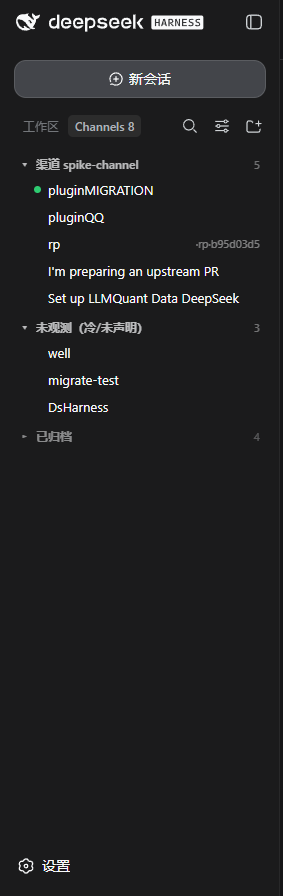
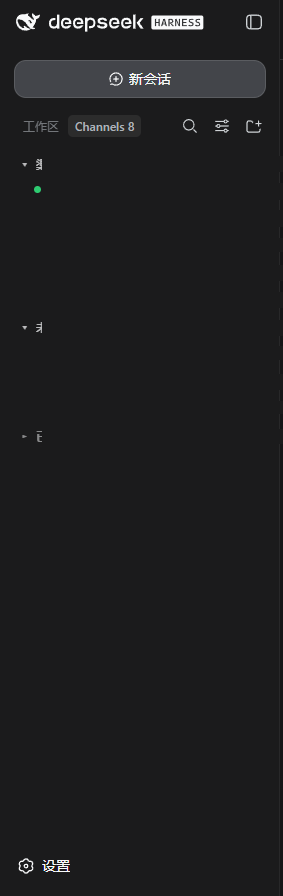
docs(privacy): 预览截图改为抹名版（遮蔽真实工作区/会话名）+ README 改用绝对图片 URL

Changed region(s): [[0.1413, 0.1562, 0.9046, 0.5]]

diff --git a/README.md b/README.md
@@ -8,7 +8,9 @@
 
 | 工作区常态 | Channels 激活态（分组 + 脉冲点 + 归档折叠组） |
 |---|---|
-| ![tab-normal](docs/tab-normal.png) | ![channels-active](docs/channels-active.png) |
+| ![工作区常态（会话名已遮蔽）](https://raw.githubusercontent.com/RGarvel/dsh-channel-view/main/docs/tab-normal.png) | ![Channels 激活态（会话名已遮蔽）](https://raw.githubusercontent.com/RGarvel/dsh-channel-view/main/docs/channels-active.png) |
+
+> 上表为**抹名版**截图：真实工作区与会话名已遮蔽，分组结构 / 脉冲点 / 归档折叠组保持原样。图片用绝对 URL，GitHub 与 npm 两处页面都不依赖相对路径解析。净化 demo 环境的正式截图待替换。
 
 DSH「渠道会话视图」原型。**spike 三问已全部验证通过（2026-08-27 实测 CHAIN ALIVE ✔）**：
 
